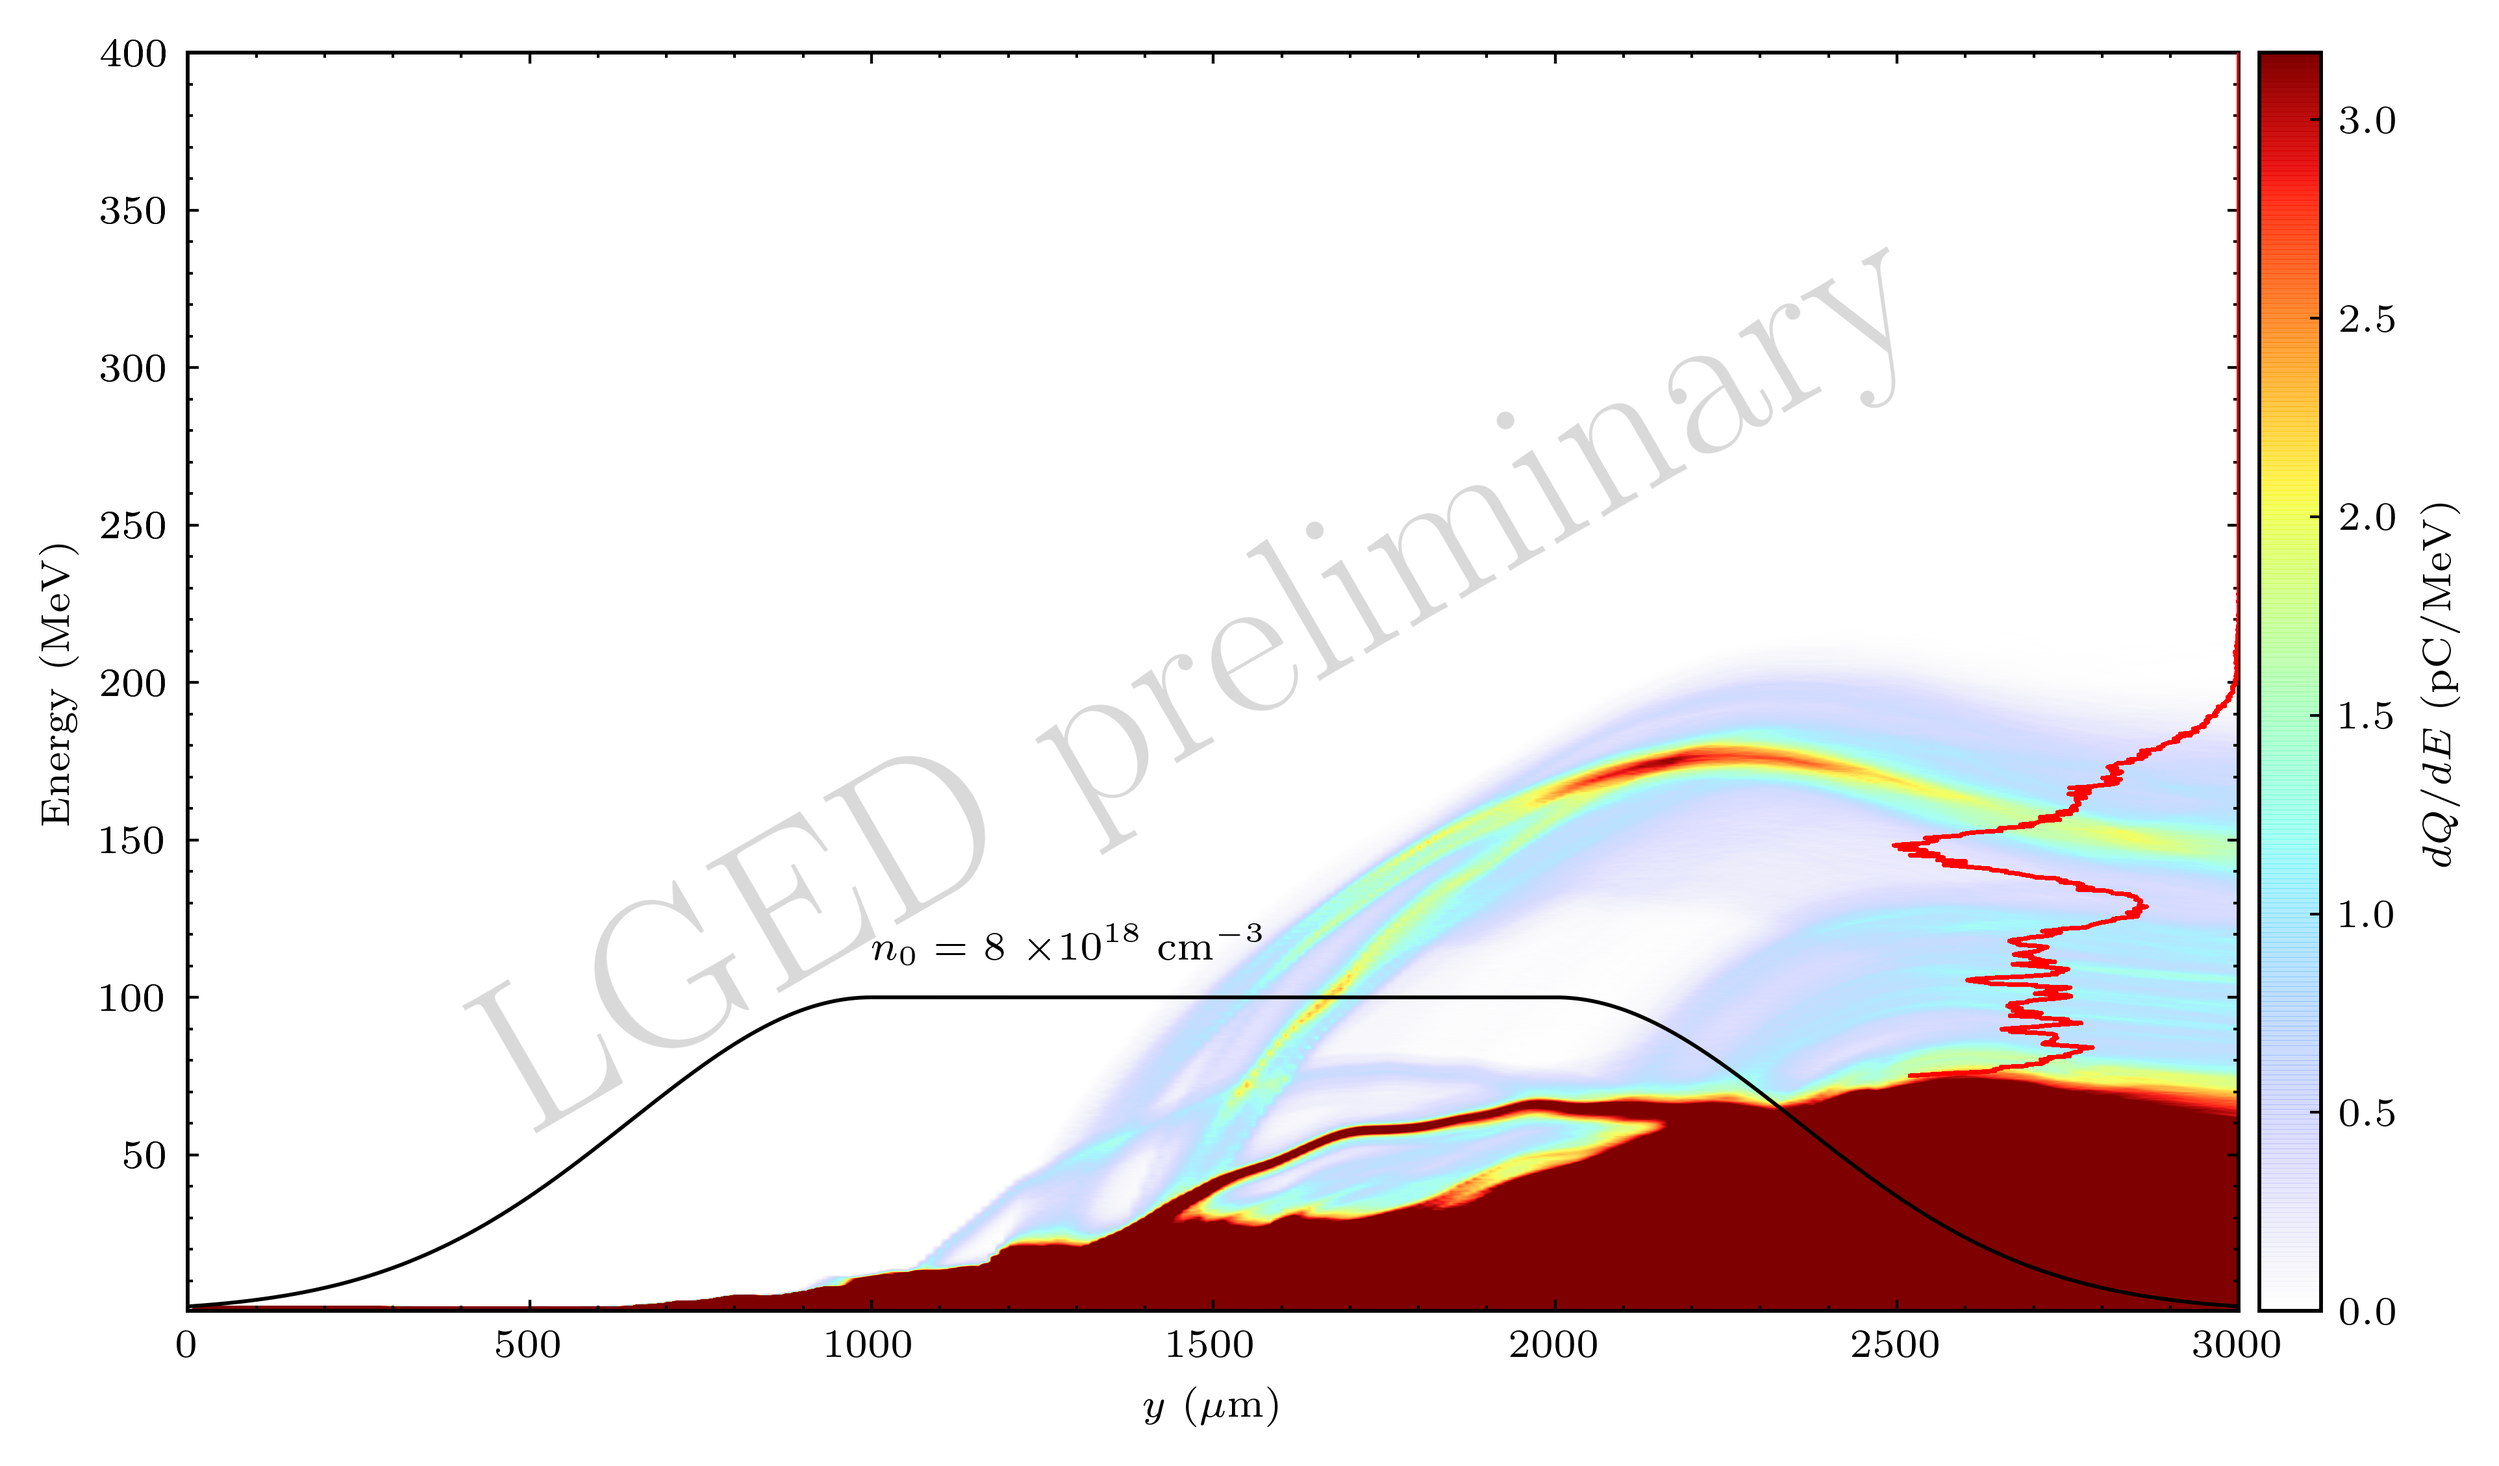
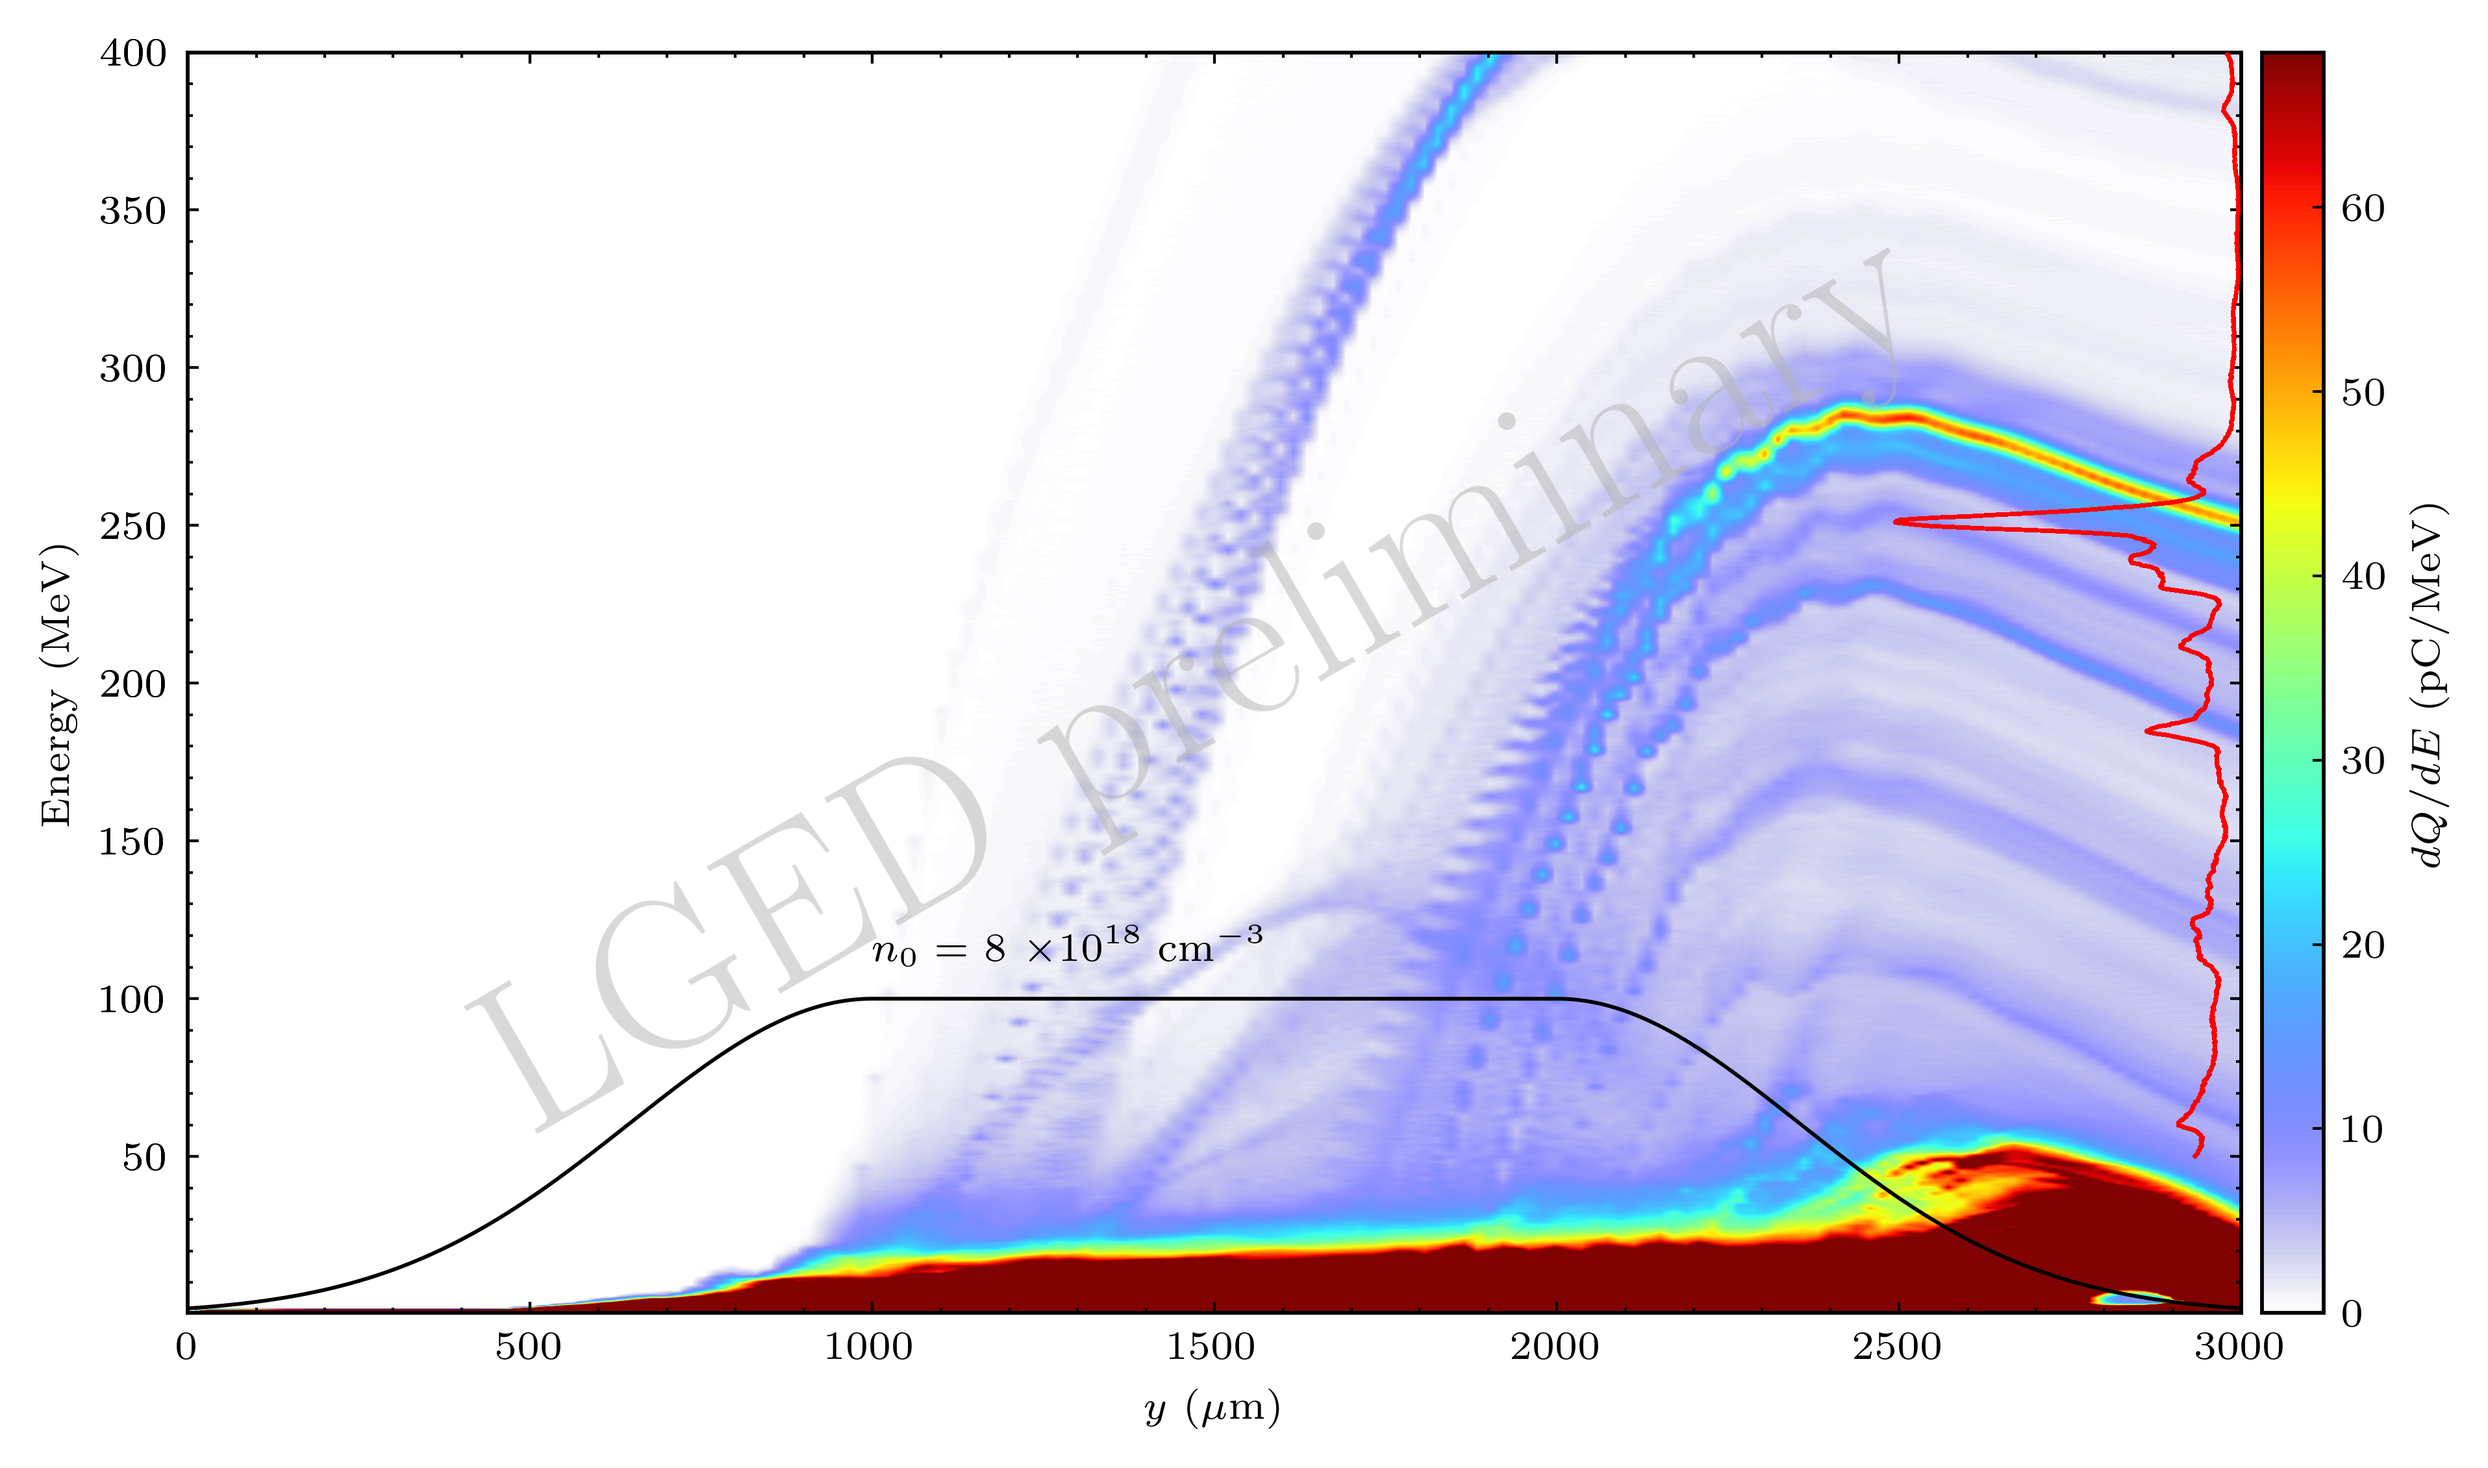
update

diff --git a/custom_colormap.py b/custom_colormap.py
@@ -30,8 +30,23 @@ def colormap_alpha(color):
     # get colormap
     ncolors = 256
     color_array = plt.get_cmap(f'{color}')(range(ncolors))
+    # create alpha values
+    alphas = np.zeros(ncolors)
+    const = -(np.log(1e-2)-1e-2)/ncolors 
+    
+    for i in range(ncolors):   
+        if i==0:
+            alphas[i] = 0.0
+        else:
+            alphas[i] = 1-np.exp(-const*i+1e-2)
+            
+    # Define the background as white
+    BG = np.asarray([1., 1., 1.,])
+    
     # change alpha values
-    color_array[:,-1] = np.linspace(0.0,1.0,ncolors)
+    for i in range(ncolors):
+        color_array[i,:-1] = color_array[i,:-1] * alphas[i] + BG * (1.- alphas[i])   
+        
     # create a colormap object
     map_object = LinearSegmentedColormap.from_list(name=f'{color}_alpha',colors=color_array)    
     # register this new colormap with matplotlib

diff --git a/histogram_evol.py b/histogram_evol.py
@@ -18,7 +18,7 @@ rcParams.update(params)
 import prepic_density as den
 
 species = 'e' 
-p = "/media/ong/WORKDIR2/betatron0013/"
+p = "/media/ong/WORKDIR2/betatron0011/"
 # Read histogram data
 eh_data = EnergyHistogramData(p)
 iterations = eh_data.get_iterations(species=species)
@@ -50,11 +50,11 @@ for i in range(0,n_points_x,1):
 array2D = array2D/div*1.6e-19*1e12 # convert to pC/MeV
 
 # histogram low energy cutoff [MeV]
-cutoff = 50
+cutoff = 70
 init = int(cutoff/div)
 vmax = np.max(array2D[:,init:])
 
-ne = 7.4 # electron plasma density in 10^18 cm$^{-3}$
+ne = 8 # electron plasma density in 10^18 cm$^{-3}$
 gasPower = 2
 #  lengths in microns
 flat_top_dist = 1000  # plasma flat top distance
